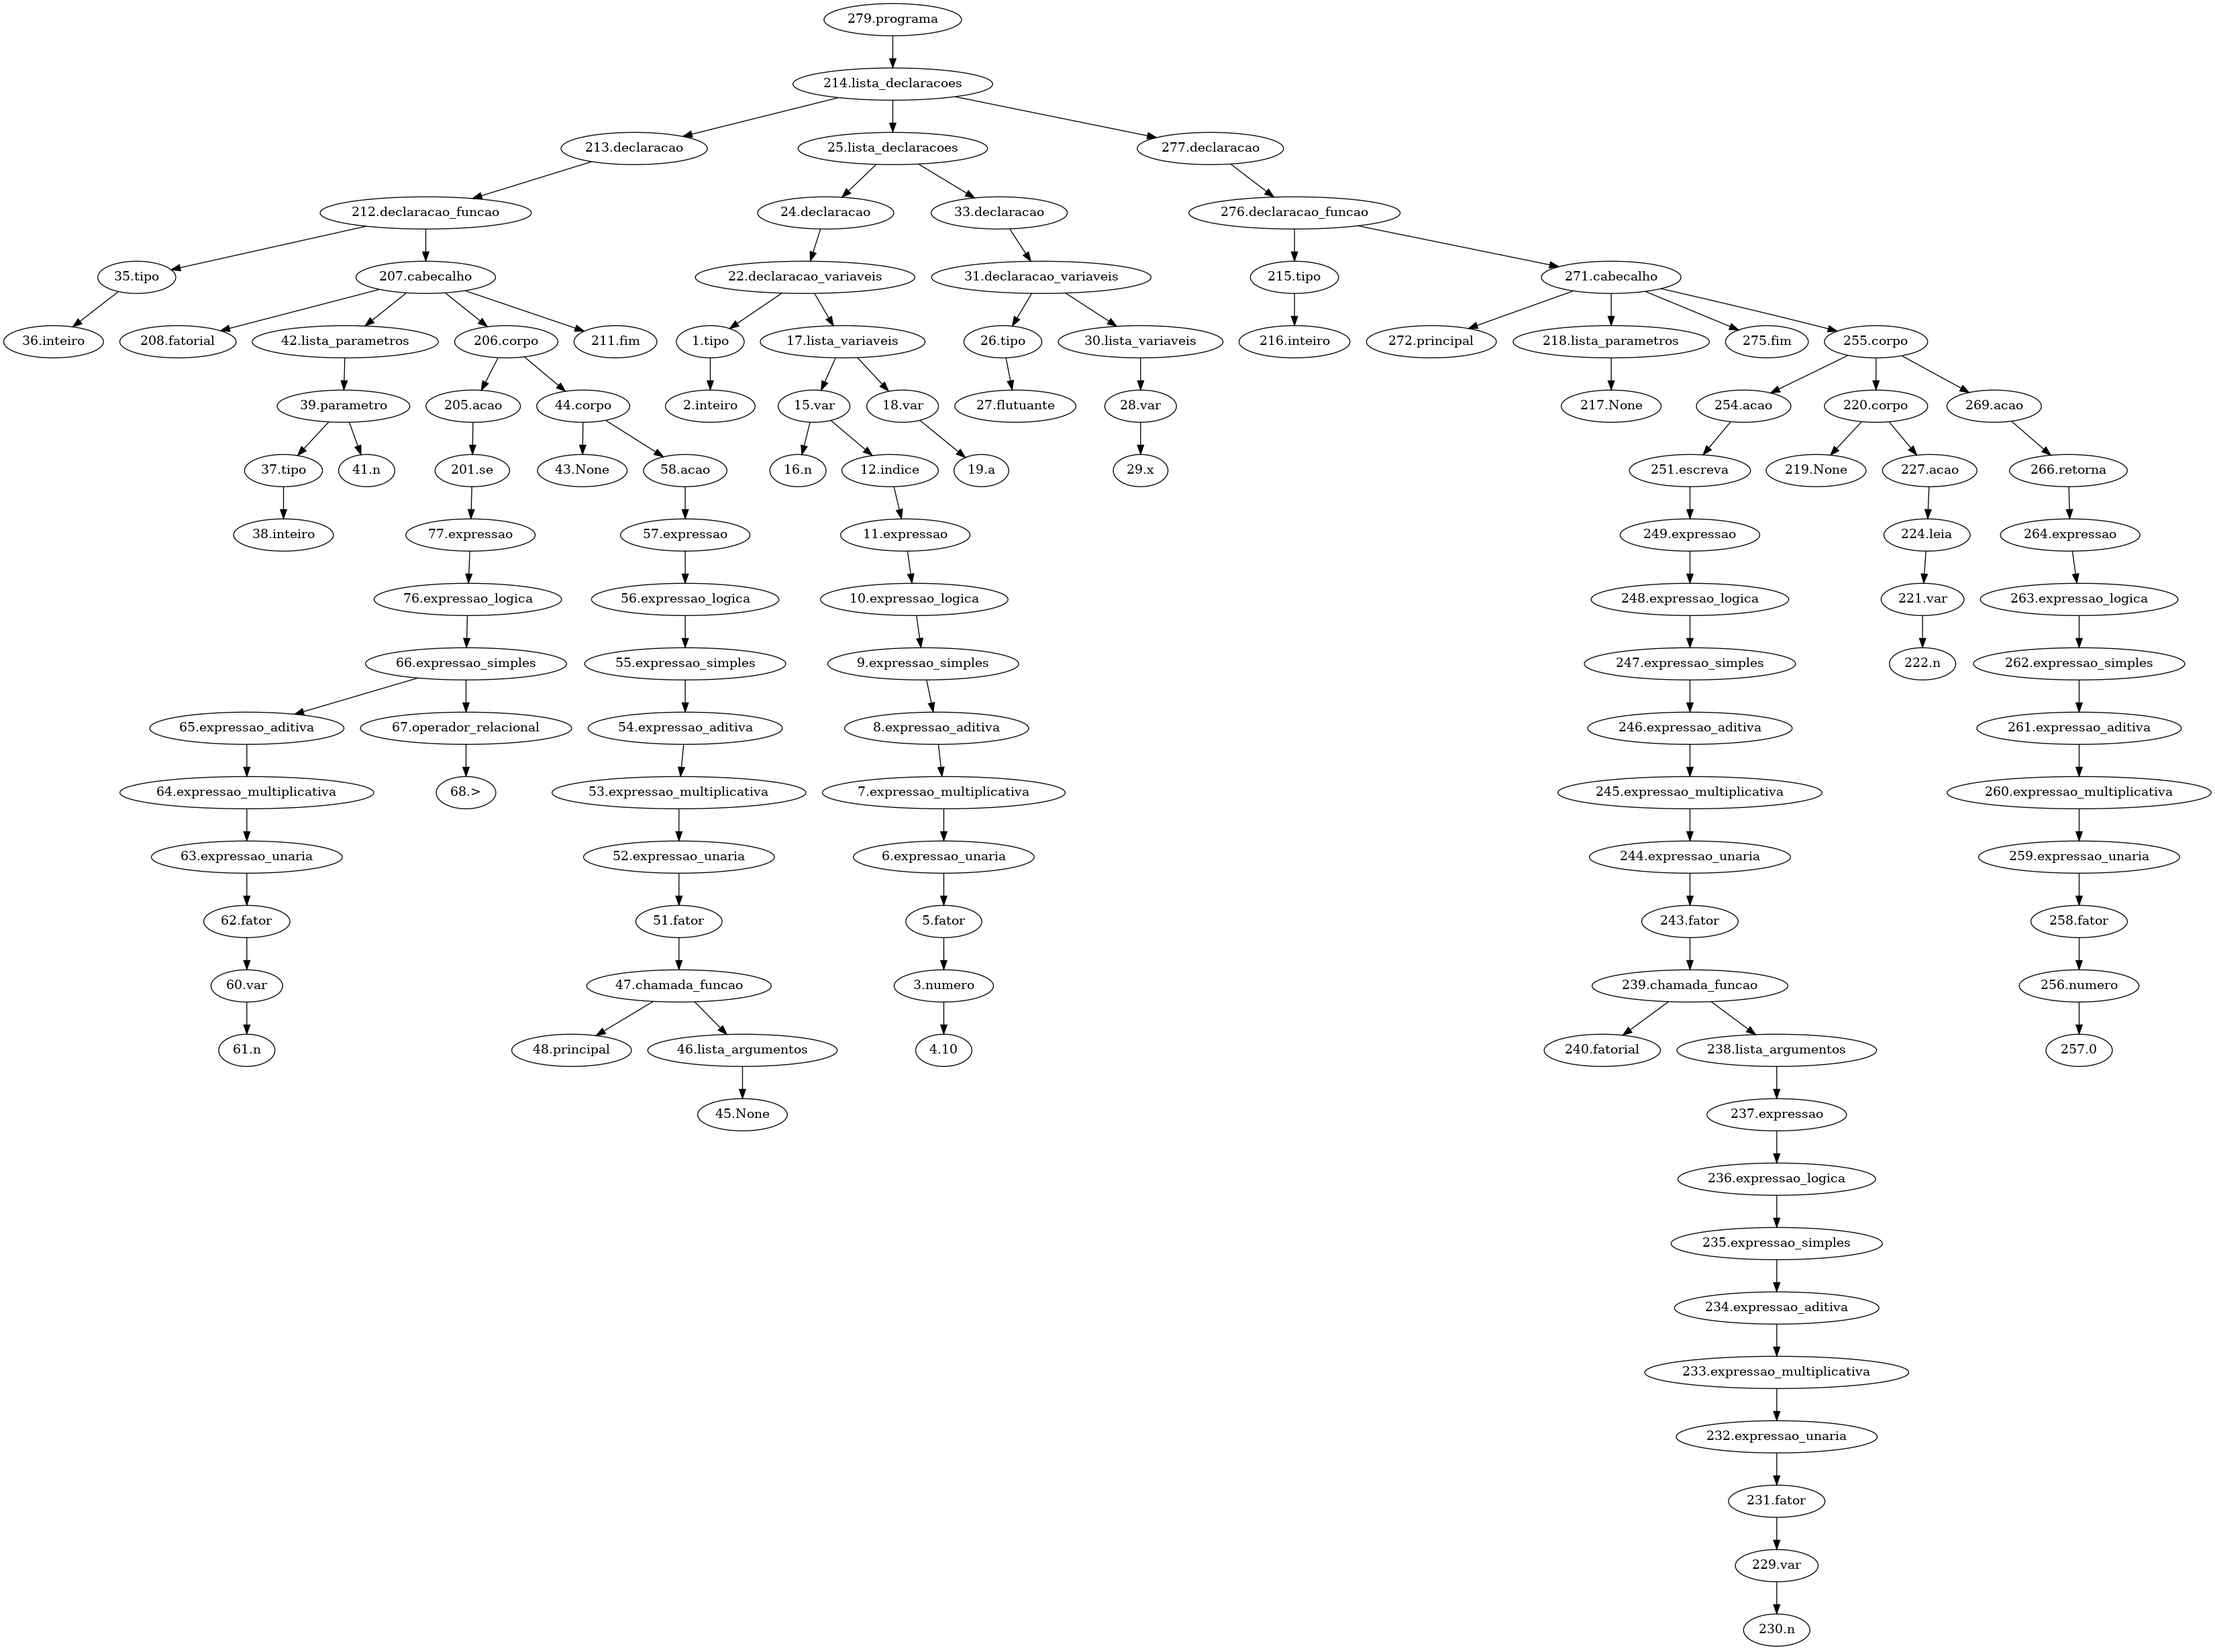
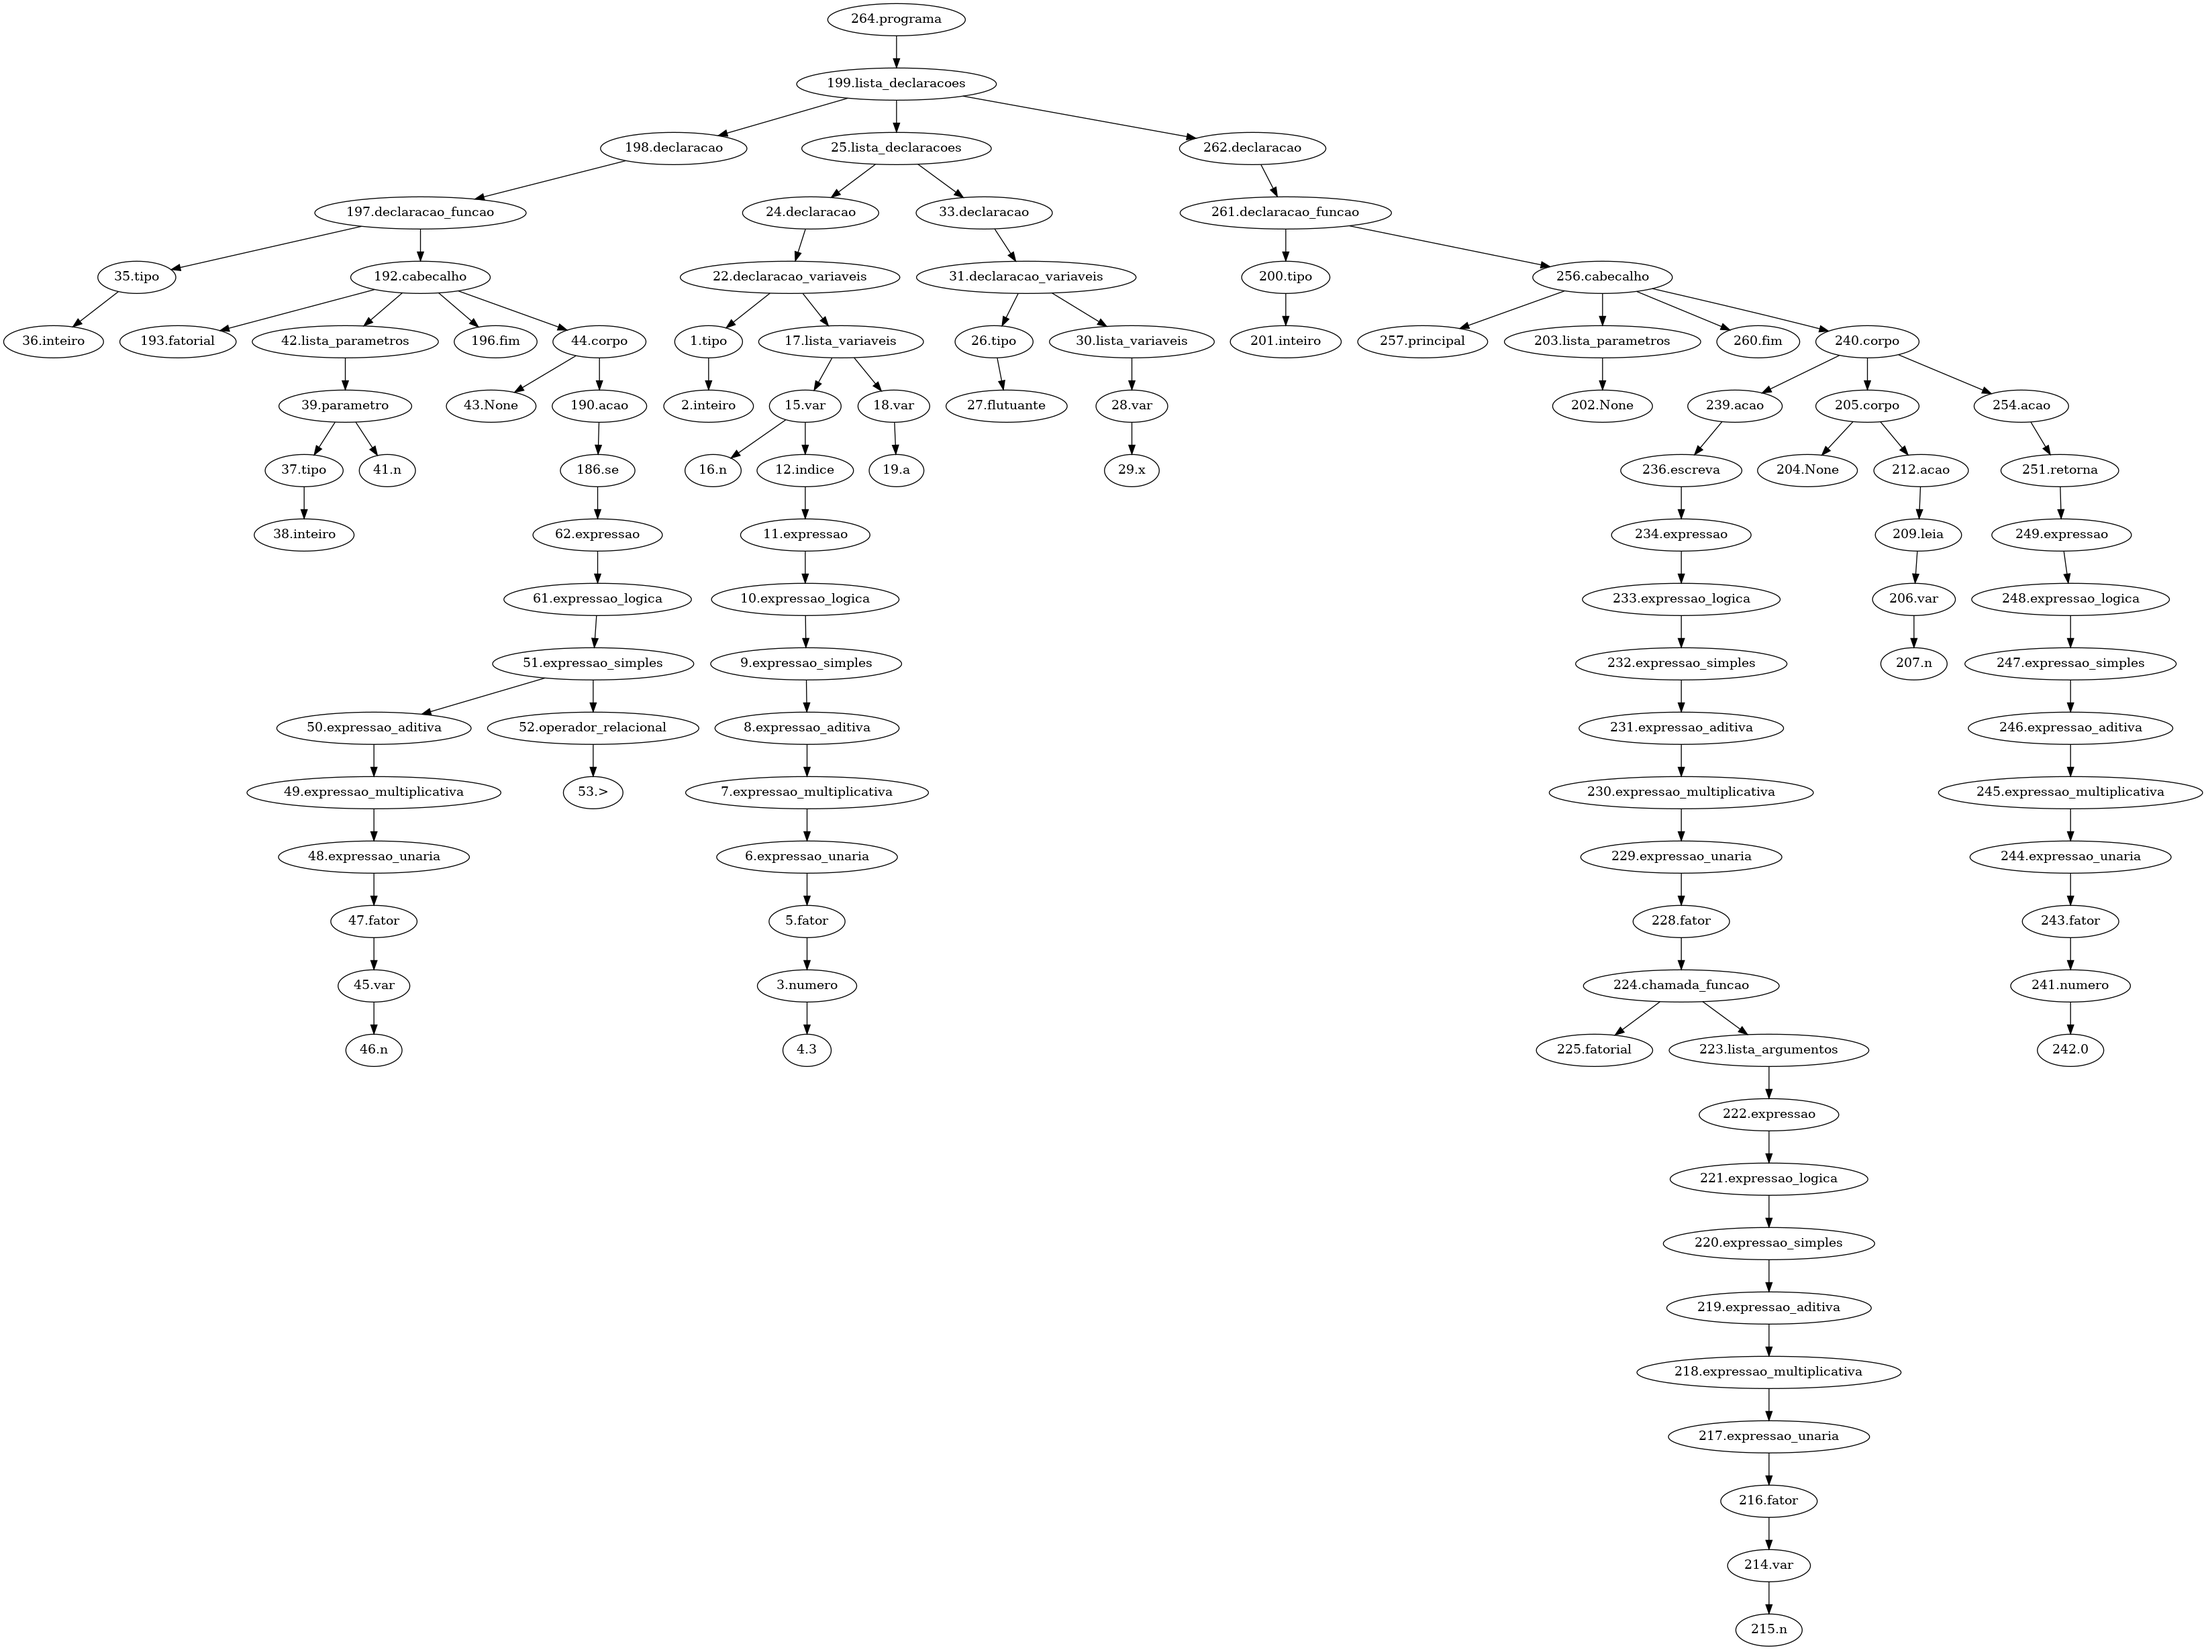
Diferenciando vetor de variável e agrupando por tipo

diff --git a/src/fillSymbolTable.py b/src/fillSymbolTable.py
@@ -6,7 +6,9 @@ def findFunc(tree):
     st = {}
     funcoes = []
 
+
     for node in PreOrderIter(tree):
+        st['categoria'] = 'funcao'
         node_name = name(node)
 
         if node_name == 'declaracao_funcao':
@@ -54,11 +56,56 @@ def findFunc(tree):
             funcoes.append(st)
             st = {}
     
-    insertTable(funcoes)
-    # return funcoes - vou juntar todos os imports depois para fazer um arquivo só
+    # insertTable(funcoes)
+    return funcoes 
+    # - vou juntar todos os imports depois para fazer um arquivo só
+
+def findVar(tree):
+    st = {}
+    variaveis = []
+
+
+    for node in PreOrderIter(tree):
+        node_name = name(node)
+
+        if node_name == 'declaracao_variaveis':
+            for n in PreOrderIter(node):
+                if name(n) == 'tipo':
+                    st['tipo'] = name(n.children[0])
+                elif name(n) == 'lista_variaveis':
+                    dados = {}
+                    st['info'] = []
+
+                    for e in PreOrderIter(n):
+                        if len(n.children) >= 2:
+                            if name(e) == 'var':
+                                dados['lexema'] = name(e.children[0])   
+                                
+                                for i in PreOrderIter(e):
+                                    if i.is_leaf:
+                                        if name(i.parent) == 'numero':
+                                            dados['categoria'] = 'vetor'
+                                            dados['dimensao'] = name(i)
+                                        else:
+                                            dados['categoria'] = 'variavel'
+                                
+                                st['info'].append(dados)
+                                dados = {}
+                        else:
+                            dados['lexema'] = name(e)
+                            dados['categoria'] = 'variavel'
+
+                            st['info'] = dados
+                            dados = {}
+
+            variaveis.append(st)
+            st = {}
+
+    insertTable(variaveis)
+    # return variaveis
 
 ## ERROS TRATADOS:
-# 19, 9, 3, 4
-# TRATAR: 12, 13
+# 19, 9, 3, 4, 13
+
 ## ERROS PARA TRATAR ANDANDO NA TABELA COMPLETA
-# 1, 2, 5, 6?, 7?, 10, 11, 14, 15, 16, 17, 18
+# 1, 2, 5, 6?, 7?, 10, 11, 12, 14, 15, 16, 17, 18

diff --git a/src/parser.py b/src/parser.py
@@ -562,6 +562,7 @@ def run_parser(file):
         
         DotExporter(result).to_picture("ast.png")
         pt = pruneTree.prune(result)
-        fillSymbolTable.findFunc(pt)
+        # fillSymbolTable.findFunc(pt)
+        fillSymbolTable.findVar(pt)
 
         f.close()
